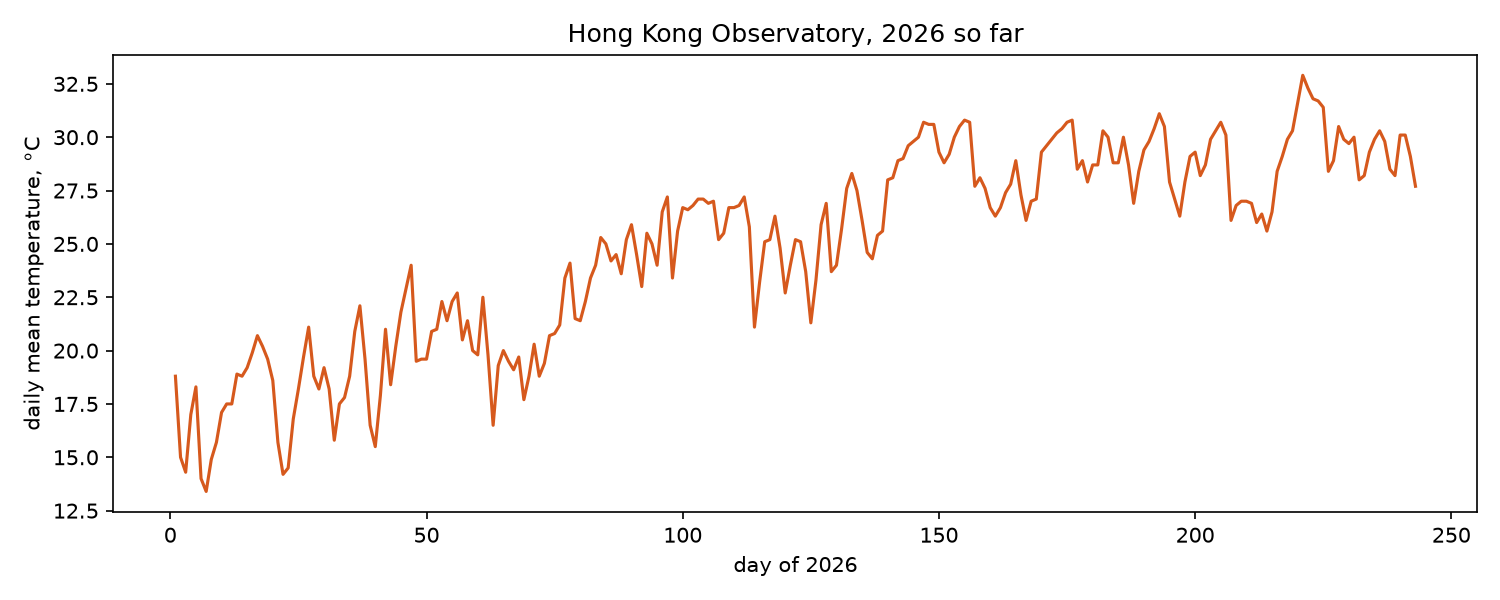
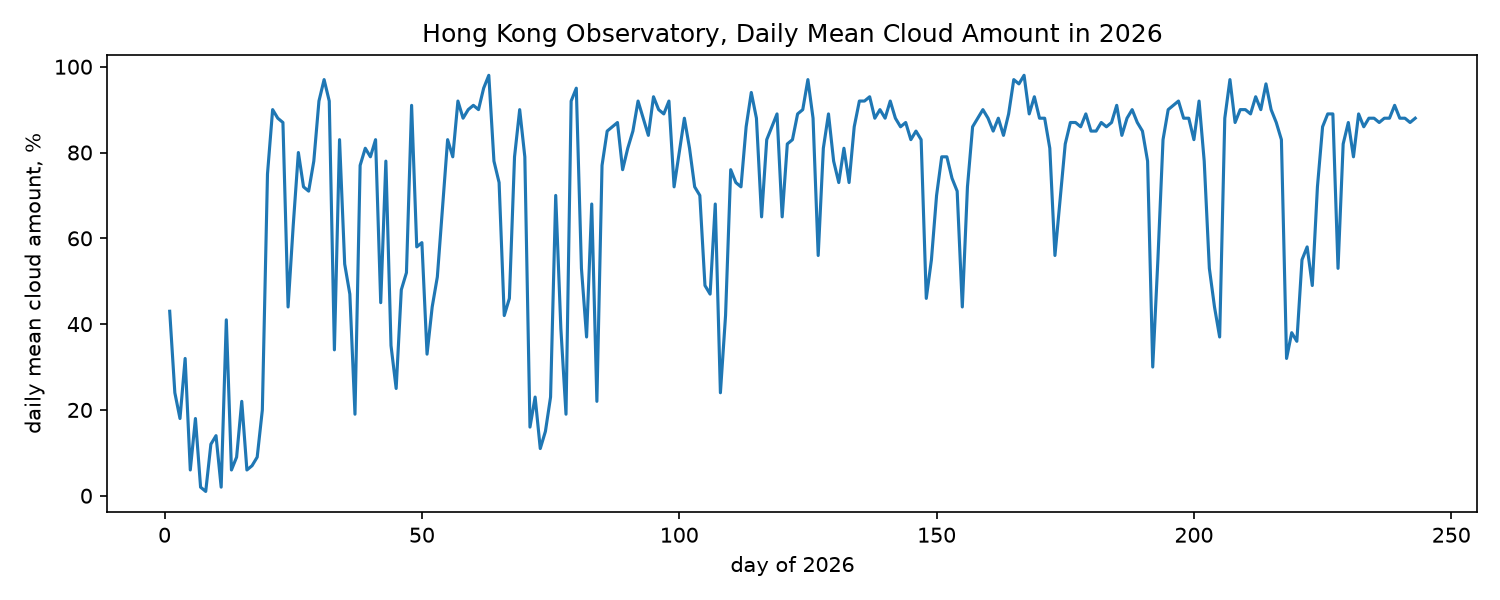
2

diff --git a/plot.py b/plot.py
@@ -18,8 +18,8 @@ from pathlib import Path
 
 import matplotlib.pyplot as plt
 
-FILE = "hko-daily-mean-temperature-2026.csv"   # CHANGE ME: the same name as in fetch.py
-PICTURE = "plot.png"                           # what goes into out/, and into the README
+FILE = "hko-daily-mean-cloud-2026.csv"
+PICTURE = "plot.png"
 
 HERE = Path(__file__).parent
 DATA = HERE / "data" / FILE
@@ -27,9 +27,7 @@ OUT = HERE / "out"
 
 
 def rows(path):
-    """The file as a list of lists, one per line. The Observatory puts three lines
-    of titles above the table and a legend below it, so keep only the lines that
-    start with a year."""
+    """Keep only the lines that start with a year."""
     kept = []
     with path.open(encoding="utf-8-sig", newline="") as handle:
         for line in csv.reader(handle):
@@ -43,23 +41,25 @@ def main():
     print(f"{DATA.name}: {len(table)} rows. The first one: {table[0]}")
 
     days, values = [], []
-    for i, (year, month, day, value, quality) in enumerate(table):   # the loop over the numbers
-        if value == "***":                   # the Observatory's word for "missing"
+    for i, (year, month, day, value, quality) in enumerate(table):
+        if value == "***":
             continue
         days.append(i + 1)
-        values.append(float(value))          # it arrived as text; make it a number
+        values.append(float(value))
+
     print(f"{len(values)} values, from {min(values)} to {max(values)}")
 
     fig, ax = plt.subplots(figsize=(10, 4))
-    ax.plot(days, values, color="#d6591d", linewidth=1.5)
+    ax.plot(days, values, linewidth=1.5)
     ax.set_xlabel("day of 2026")
-    ax.set_ylabel("daily mean temperature, °C")
-    ax.set_title("Hong Kong Observatory, 2026 so far")
+    ax.set_ylabel("daily mean cloud amount, %")
+    ax.set_title("Hong Kong Observatory, Daily Mean Cloud Amount in 2026")
     fig.tight_layout()
 
     OUT.mkdir(exist_ok=True)
     fig.savefig(OUT / PICTURE, dpi=150)
     print(f"saved out/{PICTURE}")
+
     plt.show()
 
 
